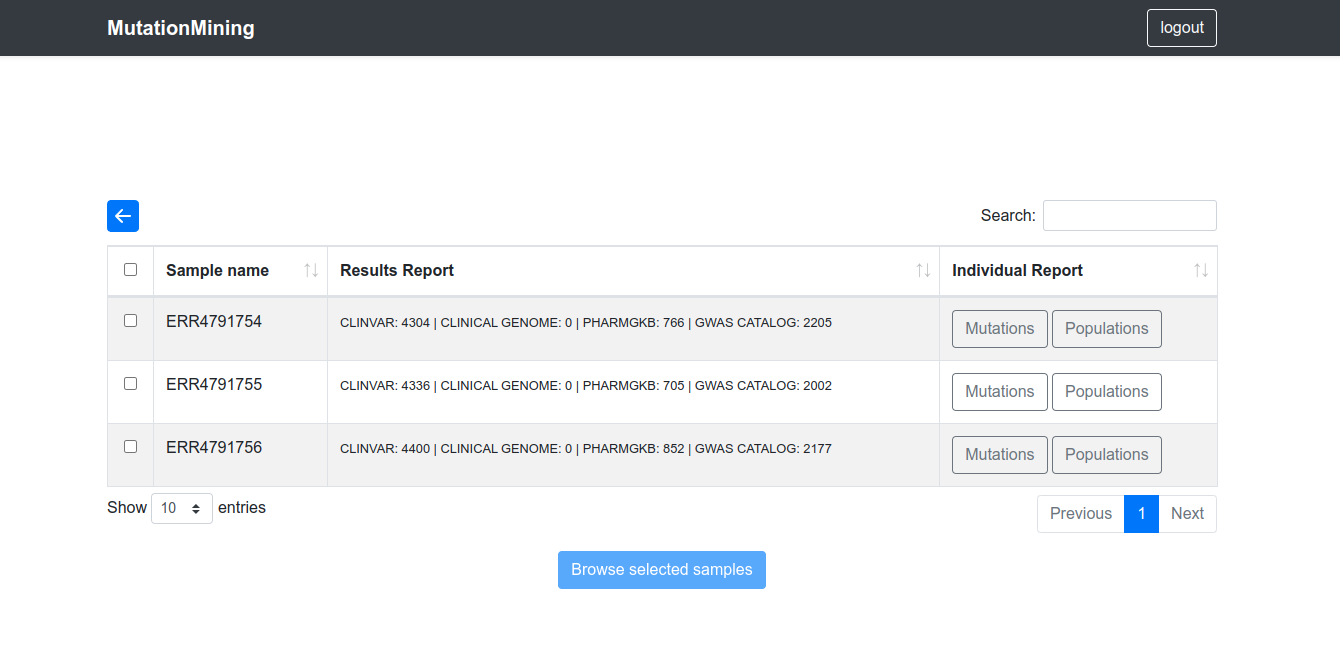
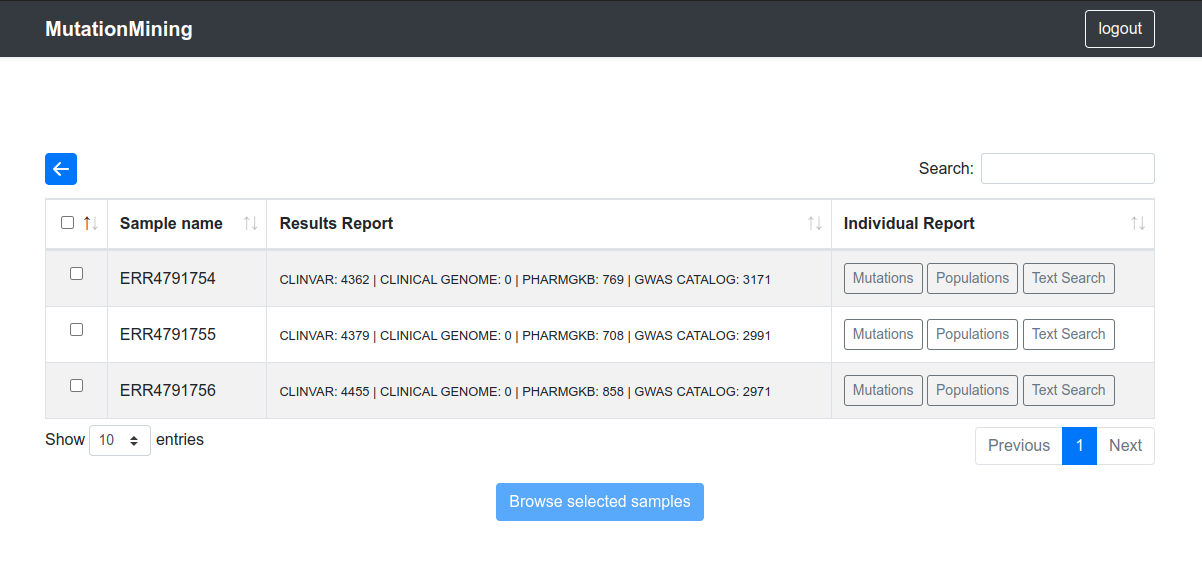
GitBook: [#44] No subject

diff --git a/home-page/sequencing-projects.md b/home-page/sequencing-projects.md
@@ -4,14 +4,15 @@ For this guide we have used the project PRJEB41088\_AngelmanTrio (link), each us
 
 ![](../.gitbook/assets/sequencing-projects.png)
 
-| Column Name       | Description                                |
-| ----------------- | ------------------------------------------ |
-| Date              | Date of project creation                   |
-| Project Name      | Name assigned to the project               |
-| Number of samples | Number of samples contained in the project |
-| Open button       | Display project variants                   |
+| Column Name       | Description                                           |
+| ----------------- | ----------------------------------------------------- |
+| Date              | Date of project creation                              |
+| Project Name      | Name assigned to the project                          |
+| Methods           | Project description and versions used in its creation |
+| Number of samples | Number of samples contained in the project            |
+| Mining            | Useful buttons to display different results           |
 
-In this section there are two possibilities
+### In this section there are three possibilities
 
 * [Display variants for all samples](page-1.md)
 
@@ -21,3 +22,6 @@ In this section there are two possibilities
 
 ![](../.gitbook/assets/sequencing-projects-samples.png)
 
+* Genome tables [text search section](sequencing-projects/text-search.md)
+
+![](../.gitbook/assets/sequencing-projects-search-text.png)

diff --git a/SUMMARY.md b/SUMMARY.md
@@ -8,4 +8,5 @@
     * [Display variants for samples](home-page/sequencing-projects/display-variants-for-samples/README.md)
       * [Mutations](home-page/sequencing-projects/display-variants-for-samples/mutations.md)
       * [Populations](home-page/sequencing-projects/display-variants-for-samples/populations.md)
+    * [Text Search](home-page/sequencing-projects/text-search.md)
   * [Filtered Variants](home-page/filtered-variants.md)

diff --git a/home-page/sequencing-projects/text-search.md b/home-page/sequencing-projects/text-search.md
@@ -1,0 +1,3 @@
+# Text Search
+
+&#x20;
